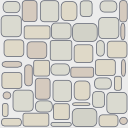
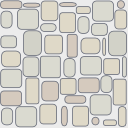
Finished samples border

diff --git a/Samples/Samples XNA/Samples XNA/Samples/Prefabs/Border.cs b/Samples/Samples XNA/Samples XNA/Samples/Prefabs/Border.cs
@@ -14,13 +14,16 @@ namespace FarseerPhysics.SamplesFramework
         private Body _anchor;
         private World _world;
         private PhysicsGameScreen _screen;
+        private VertexPositionColorTexture[] _borderVerts;
+        private BasicEffect _basicEffect;
 
         public Border(World world, PhysicsGameScreen screen, Viewport viewport)
         {
             _world = world;
+            _screen = screen;
 
-            float _halfWidth = ConvertUnits.ToSimUnits(viewport.Width) / 2f - 0.0625f;
-            float _halfHeight = ConvertUnits.ToSimUnits(viewport.Height) / 2f - 0.0625f;
+            float _halfWidth = ConvertUnits.ToSimUnits(viewport.Width) / 2f - 0.75f;
+            float _halfHeight = ConvertUnits.ToSimUnits(viewport.Height) / 2f - 0.75f;
 
             Vertices borders = new Vertices(4);
             borders.Add(new Vector2(-_halfWidth, _halfHeight));
@@ -32,12 +35,53 @@ namespace FarseerPhysics.SamplesFramework
             _anchor.CollisionCategories = Category.All;
             _anchor.CollidesWith = Category.All;
 
-            _screen = screen;
+            _basicEffect = new BasicEffect(_screen.ScreenManager.GraphicsDevice);
+            _basicEffect.VertexColorEnabled = true;
+            _basicEffect.TextureEnabled = true;
+            _basicEffect.Texture = _screen.ScreenManager.Content.Load<Texture2D>("Materials/pavement");
+
+            VertexPositionColorTexture[] vertice = new VertexPositionColorTexture[8];
+            vertice[0] = new VertexPositionColorTexture(new Vector3(-_halfWidth, -_halfHeight, 0f),
+                                                        Color.LightGray, new Vector2(-_halfWidth, -_halfHeight) / 5.25f);
+            vertice[1] = new VertexPositionColorTexture(new Vector3(_halfWidth, -_halfHeight, 0f),
+                                                        Color.LightGray, new Vector2(_halfWidth, -_halfHeight) / 5.25f);
+            vertice[2] = new VertexPositionColorTexture(new Vector3(_halfWidth, _halfHeight, 0f),
+                                                        Color.LightGray, new Vector2(_halfWidth, _halfHeight) / 5.25f);
+            vertice[3] = new VertexPositionColorTexture(new Vector3(-_halfWidth, _halfHeight, 0f),
+                                                        Color.LightGray, new Vector2(-_halfWidth, _halfHeight) / 5.25f);
+            vertice[4] = new VertexPositionColorTexture(new Vector3(-_halfWidth - 2f, -_halfHeight - 2f, 0f),
+                                                        Color.LightGray, new Vector2(-_halfWidth - 2f, -_halfHeight - 2f) / 5.25f);
+            vertice[5] = new VertexPositionColorTexture(new Vector3(_halfWidth + 2f, -_halfHeight - 2f, 0f),
+                                                        Color.LightGray, new Vector2(_halfWidth + 2f, -_halfHeight - 2f) / 5.25f);
+            vertice[6] = new VertexPositionColorTexture(new Vector3(_halfWidth + 2f, _halfHeight + 2f, 0f),
+                                                        Color.LightGray, new Vector2(_halfWidth + 2f, _halfHeight + 2f) / 5.25f);
+            vertice[7] = new VertexPositionColorTexture(new Vector3(-_halfWidth - 2f, _halfHeight + 2f, 0f),
+                                                        Color.LightGray, new Vector2(-_halfWidth - 2f, _halfHeight + 2f) / 5.25f);
+
+            _borderVerts = new VertexPositionColorTexture[24];
+            _borderVerts[0] = vertice[0]; _borderVerts[1] = vertice[5]; _borderVerts[2] = vertice[4];
+            _borderVerts[3] = vertice[0]; _borderVerts[4] = vertice[1]; _borderVerts[5] = vertice[5];
+            _borderVerts[6] = vertice[1]; _borderVerts[7] = vertice[6]; _borderVerts[8] = vertice[5];
+            _borderVerts[9] = vertice[1]; _borderVerts[10] = vertice[2]; _borderVerts[11] = vertice[6];
+            _borderVerts[12] = vertice[2]; _borderVerts[13] = vertice[7]; _borderVerts[14] = vertice[6];
+            _borderVerts[15] = vertice[2]; _borderVerts[16] = vertice[3]; _borderVerts[17] = vertice[7];
+            _borderVerts[18] = vertice[3]; _borderVerts[19] = vertice[4]; _borderVerts[20] = vertice[7];
+            _borderVerts[21] = vertice[3]; _borderVerts[22] = vertice[0]; _borderVerts[23] = vertice[4];
         }
 
         public void Draw()
         {
+            GraphicsDevice _device = _screen.ScreenManager.GraphicsDevice;
             LineBatch _batch = _screen.ScreenManager.LineBatch;
+
+            _device.SamplerStates[0] = SamplerState.AnisotropicWrap;
+            _device.RasterizerState = RasterizerState.CullNone;
+            _basicEffect.Projection = _screen.Camera.SimProjection;
+            _basicEffect.View = _screen.Camera.SimView;
+            _basicEffect.CurrentTechnique.Passes[0].Apply();
+
+            _device.DrawUserPrimitives(PrimitiveType.TriangleList, _borderVerts, 0, 8);
+
             _batch.Begin(_screen.Camera.SimProjection, _screen.Camera.SimView);
             _batch.DrawLineShape(_anchor.FixtureList[0].Shape);
             _batch.End();

diff --git a/Samples/Samples XNA/Samples XNA/Samples/AdvancedDemo5.cs b/Samples/Samples XNA/Samples XNA/Samples/AdvancedDemo5.cs
@@ -63,18 +63,20 @@ namespace FarseerPhysics.SamplesFramework
 
             List<Vertices> list = PolygonTools.CreatePolygon(data, alphabet.Width, 3.5f, 20, true, true);
 
-            float yOffset = 0f;
-            float xOffset = -26.25f;
+            float yOffset = -5f;
+            float xOffset = -14f;
             for (int i = 0; i < list.Count; i++)
             {
-                xOffset += 3.5f;
-
-                if (i == 14)
+                if (i == 9)
+                {
+                    yOffset = 0f;
+                    xOffset = -14f;
+                }
+                if (i == 18)
                 {
                     yOffset = 5f;
-                    xOffset = -19.25f;
+                    xOffset = -12.25f;
                 }
-
                 Vertices polygon = list[i];
                 Vector2 centroid = -polygon.GetCentroid();
                 polygon.Translate(ref centroid);
@@ -97,6 +99,8 @@ namespace FarseerPhysics.SamplesFramework
                 breakableBody.MainBody.Position = new Vector2(xOffset, yOffset);
                 breakableBody.Strength = 100;
                 World.AddBreakableBody(breakableBody);
+
+                xOffset += 3.5f;
             }
         }
 

diff --git a/Samples/Samples XNA/Samples XNA/Samples/SimpleDemo6.cs b/Samples/Samples XNA/Samples XNA/Samples/SimpleDemo6.cs
@@ -53,12 +53,12 @@ namespace FarseerPhysics.SamplesFramework
 
             _border = new Border(World, this, ScreenManager.GraphicsDevice.Viewport);
 
-            _agent = new Agent(World, this, new Vector2(0f, 12f));
+            _agent = new Agent(World, this, new Vector2(0f, 10f));
             _spiders = new Spider[8];
 
             for (int i = 0; i < _spiders.Length; i++)
             {
-                _spiders[i] = new Spider(World, this, new Vector2(0f, 10f - (i + 1) * 2f));
+                _spiders[i] = new Spider(World, this, new Vector2(0f, 8f - (i + 1) * 2f));
             }
 
             SetUserAgent(_agent.Body, 1000f, 400f);
@@ -79,7 +79,6 @@ namespace FarseerPhysics.SamplesFramework
 
         public override void Draw(GameTime gameTime)
         {
-            _border.Draw();
             ScreenManager.SpriteBatch.Begin(0, null, null, null, null, null, Camera.View);
             _agent.Draw();
             for (int i = 0; i < _spiders.Length; i++)
@@ -87,6 +86,7 @@ namespace FarseerPhysics.SamplesFramework
                 _spiders[i].Draw();
             }
             ScreenManager.SpriteBatch.End();
+            _border.Draw();
             base.Draw(gameTime);
         }
     }

diff --git a/Samples/Samples XNA/Samples XNA/Samples/Prefabs/TheoJansen.cs b/Samples/Samples XNA/Samples XNA/Samples/Prefabs/TheoJansen.cs
@@ -16,6 +16,7 @@ namespace FarseerPhysics.SamplesFramework
         private float _motorSpeed;
         private Vector2 _position;
         private Body _wheel;
+        private PhysicsGameScreen _screen;
 
         public void Reverse()
         {
@@ -23,11 +24,13 @@ namespace FarseerPhysics.SamplesFramework
             _motorJoint.MotorSpeed = _motorSpeed;
         }
 
-        public TheoJansenWalker(World world, Vector2 position)
+        public TheoJansenWalker(World world, PhysicsGameScreen screen, Vector2 position)
         {
             _position = position;
             _motorSpeed = 2.0f;
             _motorOn = true;
+            _screen = screen;
+
             Vector2 pivot = new Vector2(0f, -0.8f);
 
             // Chassis
@@ -167,6 +170,10 @@ namespace FarseerPhysics.SamplesFramework
             RevoluteJoint rjd = new RevoluteJoint(body2, _chassis, body2.GetLocalPoint(_chassis.GetWorldPoint(anchor)),
                                                   anchor);
             world.AddJoint(rjd);
+        }
+
+        public void Draw(){
+
         }
     }
 }

diff --git a/Samples/Samples XNA/Samples XNA/DrawingSystem/LineBatch.cs b/Samples/Samples XNA/Samples XNA/DrawingSystem/LineBatch.cs
@@ -70,6 +70,7 @@ namespace FarseerPhysics.SamplesFramework
                 throw new InvalidOperationException("End must be called before Begin can be called again.");
             }
 
+            _device.SamplerStates[0] = SamplerState.AnisotropicClamp;
             //tell our basic effect to begin.
             _basicEffect.Projection = projection;
             _basicEffect.View = view;
@@ -151,7 +152,6 @@ namespace FarseerPhysics.SamplesFramework
             {
                 int primitiveCount = _lineVertsCount / 2;
                 // submit the draw call to the graphics card
-                _device.SamplerStates[0] = SamplerState.AnisotropicClamp;
                 _device.DrawUserPrimitives(PrimitiveType.LineList, _lineVertices, 0, primitiveCount);
                 _lineVertsCount -= primitiveCount * 2;
             }

diff --git a/Samples/Samples XNA/Samples XNA/Samples/AdvancedDemo3.cs b/Samples/Samples XNA/Samples XNA/Samples/AdvancedDemo3.cs
@@ -47,7 +47,7 @@ namespace FarseerPhysics.SamplesFramework
 
             _border = new Border(World, this, ScreenManager.GraphicsDevice.Viewport);
 
-            _walker = new TheoJansenWalker(World, Vector2.Zero);
+            _walker = new TheoJansenWalker(World, this, Vector2.Zero);
         }
 
         public override void HandleInput(InputHelper input, GameTime gameTime)
@@ -64,6 +64,9 @@ namespace FarseerPhysics.SamplesFramework
 
         public override void Draw(GameTime gameTime)
         {
+            ScreenManager.SpriteBatch.Begin(0, null, null, null, null, null, Camera.View);
+            _walker.Draw();
+            ScreenManager.SpriteBatch.End();
             _border.Draw();
             base.Draw(gameTime);
         }

diff --git a/Samples/Samples XNA/Samples XNA/Samples/SimpleDemo2.cs b/Samples/Samples XNA/Samples XNA/Samples/SimpleDemo2.cs
@@ -86,7 +86,6 @@ namespace FarseerPhysics.SamplesFramework
 
         public override void Draw(GameTime gameTime)
         {
-            _border.Draw();
             ScreenManager.SpriteBatch.Begin(0, null, null, null, null, null, Camera.View);
             // draw first rectangle
             ScreenManager.SpriteBatch.Draw(_rectangleSprite.texture,
@@ -99,6 +98,7 @@ namespace FarseerPhysics.SamplesFramework
                                            Color.White, _rectangles.Rotation,
                                            _rectangleSprite.origin - offset, 1f, SpriteEffects.None, 0f);
             ScreenManager.SpriteBatch.End();
+            _border.Draw();
             base.Draw(gameTime);
         }
     }

diff --git a/Samples/Samples XNA/Samples XNA/Samples/SimpleDemo8.cs b/Samples/Samples XNA/Samples XNA/Samples/SimpleDemo8.cs
@@ -71,7 +71,6 @@ namespace FarseerPhysics.SamplesFramework
 
         public override void Draw(GameTime gameTime)
         {
-            _border.Draw();
             ScreenManager.SpriteBatch.Begin(0, null, null, null, null, null, Camera.View);
             for (int i = 0; i < 6; ++i)
             {
@@ -79,6 +78,7 @@ namespace FarseerPhysics.SamplesFramework
                                                Color.White, _circle[i].Rotation, _circleSprite.origin, 1f, SpriteEffects.None, 0f);
             }
             ScreenManager.SpriteBatch.End();
+            _border.Draw();
             base.Draw(gameTime);
         }
     }

diff --git a/Samples/Samples XNA/Samples XNA/Samples/SimpleDemo1.cs b/Samples/Samples XNA/Samples XNA/Samples/SimpleDemo1.cs
@@ -70,11 +70,11 @@ namespace FarseerPhysics.SamplesFramework
 
         public override void Draw(GameTime gameTime)
         {
-            _border.Draw();
             ScreenManager.SpriteBatch.Begin(0, null, null, null, null, null, Camera.View);
             ScreenManager.SpriteBatch.Draw(_rectangleSprite.texture, ConvertUnits.ToDisplayUnits(_rectangle.Position), null,
                                            Color.White, _rectangle.Rotation, _rectangleSprite.origin, 1f, SpriteEffects.None, 0f);
             ScreenManager.SpriteBatch.End();
+            _border.Draw();
             base.Draw(gameTime);
         }
     }

diff --git a/Samples/Samples XNA/Samples XNA/Samples/AdvancedDemo1.cs b/Samples/Samples XNA/Samples XNA/Samples/AdvancedDemo1.cs
@@ -104,12 +104,11 @@ namespace FarseerPhysics.SamplesFramework
 
         public override void Draw(GameTime gameTime)
         {
-            _border.Draw();
             ScreenManager.SpriteBatch.Begin(0, null, null, null, null, null, Camera.View);
             ScreenManager.SpriteBatch.Draw(_polygonTexture, ConvertUnits.ToDisplayUnits(_compound.Position),
                                            null, Color.Tomato, _compound.Rotation, _origin, _scale, SpriteEffects.None, 0f);
             ScreenManager.SpriteBatch.End();
-
+            _border.Draw();
             base.Draw(gameTime);
         }
     }

diff --git a/Samples/Samples XNA/Samples XNA/Samples/SimpleDemo9.cs b/Samples/Samples XNA/Samples XNA/Samples/SimpleDemo9.cs
@@ -79,7 +79,6 @@ namespace FarseerPhysics.SamplesFramework
 
         public override void Draw(GameTime gameTime)
         {
-            _border.Draw();
             ScreenManager.SpriteBatch.Begin(0, null, null, null, null, null, Camera.View);
             for (int i = 0; i < 5; ++i)
             {
@@ -93,6 +92,7 @@ namespace FarseerPhysics.SamplesFramework
                 ScreenManager.LineBatch.DrawLineShape(_ramps[i].FixtureList[0].Shape, Color.DarkGreen);
             }
             ScreenManager.LineBatch.End();
+            _border.Draw();
             base.Draw(gameTime);
         }
     }

diff --git a/Samples/Samples XNA/Samples XNA/Samples/SimpleDemo3.cs b/Samples/Samples XNA/Samples XNA/Samples/SimpleDemo3.cs
@@ -88,8 +88,7 @@ namespace FarseerPhysics.SamplesFramework
         }
 
         public override void Draw(GameTime gameTime)
-        {
-            _border.Draw();
+        {            
             ScreenManager.SpriteBatch.Begin(0, null, null, null, null, null, Camera.View);
             for (int i = 0; i < 5; ++i)
             {
@@ -98,6 +97,7 @@ namespace FarseerPhysics.SamplesFramework
             }
             _agent.Draw();
             ScreenManager.SpriteBatch.End();
+            _border.Draw();
             base.Draw(gameTime);
         }
     }
